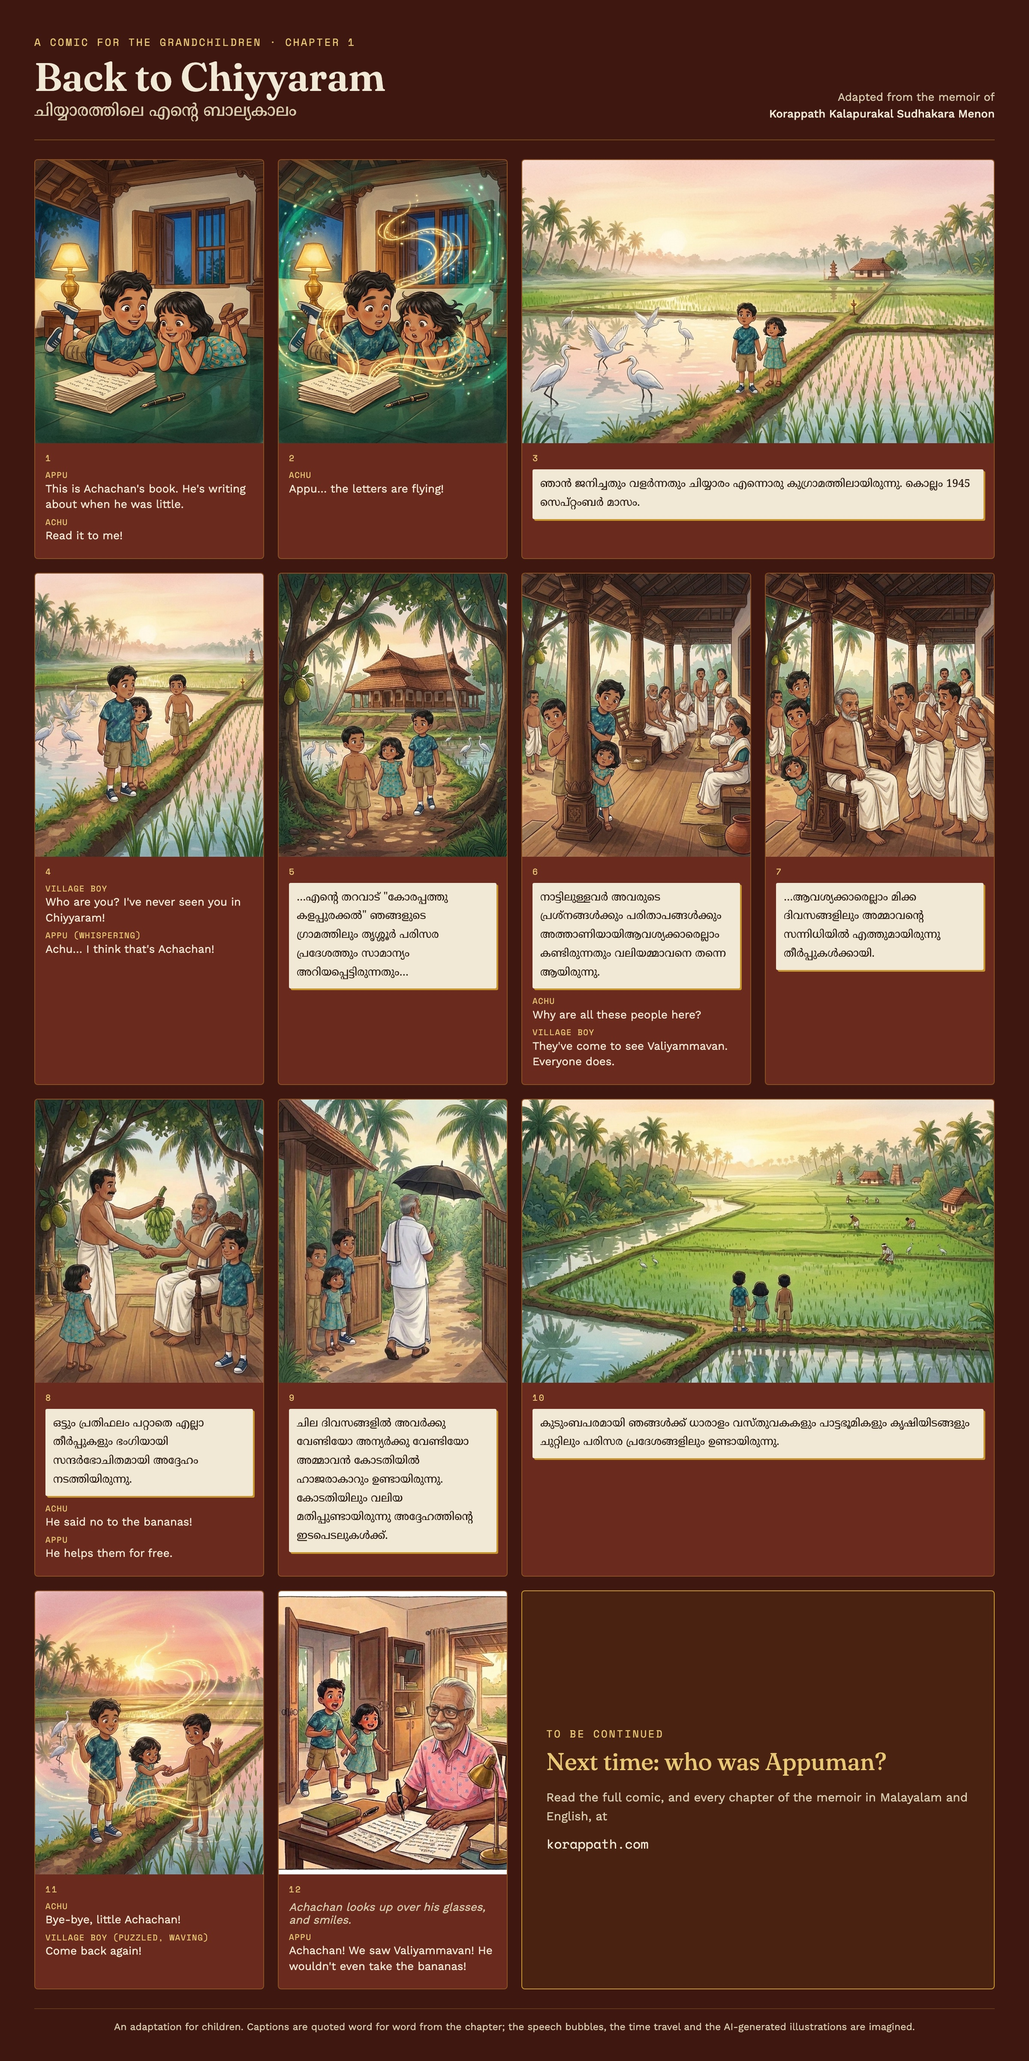
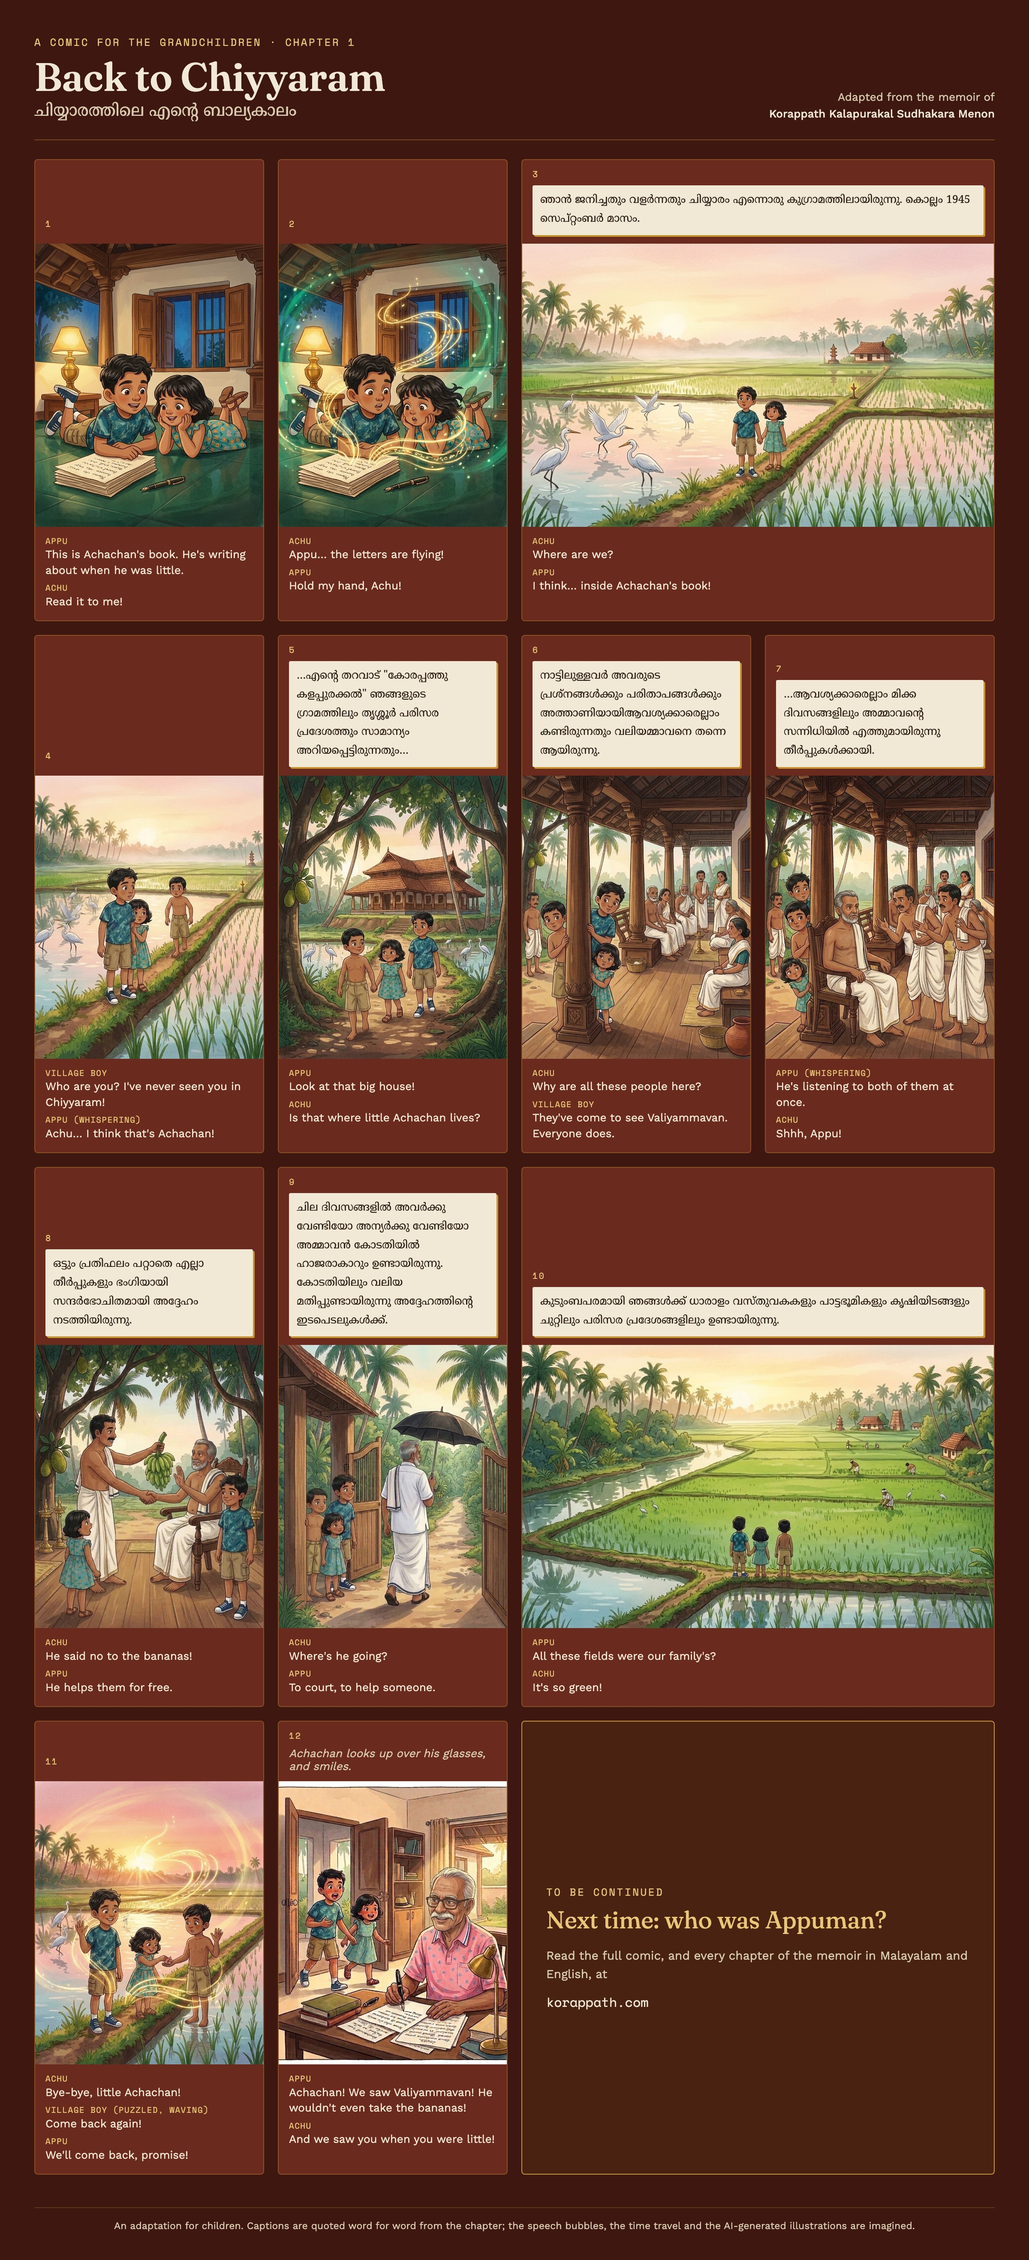
Comic ch.1: more lines for Appu and Achu; captions above pictures, bubbles below
Every panel now has Appu or Achu speaking (11 new invented lines; no new
words for young Achan or Valiyammavan). In the reader and the share images the
chapter caption sits above each picture and speech bubbles below, with
pictures level across each row. Script/style versions bumped.

diff --git a/comics/chiyyaram-childhood/story.js b/comics/chiyyaram-childhood/story.js
@@ -8,41 +8,46 @@ var APPU = 'Appu';
 var ACHU = 'Achu';
 
 // Captions (ml / en) are VERBATIM from stories/chiyyaram-childhood.html. "…" marks words left out; nothing is reworded.
-// Bubbles and narration are invented for the comic.
+// Bubbles and narration are invented for the comic. In each panel the caption sits above the picture, bubbles below.
 var PANELS = [
   { alt: 'Two children lying on a tiled floor at night, reading a stack of handwritten pages.',
     bubbles: [[APPU, 'This is ' + GRANDPA + "'s book. He's writing about when he was little."], [ACHU, 'Read it to me!']] },
   { alt: 'Golden ribbons of light rise from the pages and swirl around the amazed children.',
-    bubbles: [[ACHU, APPU + '… the letters are flying!']] },
+    bubbles: [[ACHU, APPU + '… the letters are flying!'], [APPU, 'Hold my hand, ' + ACHU + '!']] },
   { wide: true, alt: 'The two children on a ridge between misty paddy fields at sunrise, egrets nearby.',
     ml: 'ഞാൻ ജനിച്ചതും വളർന്നതും ചിയ്യാരം എന്നൊരു കുഗ്രാമത്തിലായിരുന്നു. കൊല്ലം 1945 സെപ്റ്റംബർ മാസം.',
-    en: 'I was born and raised in a small village called Chiyyaram, in September of the year 1945.' },
+    en: 'I was born and raised in a small village called Chiyyaram, in September of the year 1945.',
+    bubbles: [[ACHU, 'Where are we?'], [APPU, 'I think… inside ' + GRANDPA + "'s book!"]] },
   { alt: 'A bare-chested village boy in half-trousers stops on the ridge, staring at the two children.',
     bubbles: [['Village boy', "Who are you? I've never seen you in Chiyyaram!"], [APPU + ' (whispering)', ACHU + '… I think that\'s ' + GRANDPA + '!', 'aside']] },
   { alt: 'The village boy leads the children up a path toward a large tiled-roof ancestral home.',
     ml: '…എന്റെ തറവാട് "കോരപ്പത്തു കളപ്പുരക്കൽ" ഞങ്ങളുടെ ഗ്രാമത്തിലും തൃശ്ശൂർ പരിസര പ്രദേശത്തും സാമാന്യം അറിയപ്പെട്ടിരുന്നതും…',
-    en: '…my ancestral home, "Korappath Kalappurakkal," was reasonably well known in our village and the surrounding Thrissur area…' },
+    en: '…my ancestral home, "Korappath Kalappurakkal," was reasonably well known in our village and the surrounding Thrissur area…',
+    bubbles: [[APPU, 'Look at that big house!'], [ACHU, 'Is that where little ' + GRANDPA + ' lives?']] },
   { alt: 'Villagers wait on the wide wooden veranda while the three children peek from behind a pillar.',
     ml: 'നാട്ടിലുള്ളവർ അവരുടെ പ്രശ്നങ്ങൾക്കും പരിതാപങ്ങൾക്കും അത്താണിയായിആവശ്യക്കാരെല്ലാം കണ്ടിരുന്നതും വലിയമ്മാവനെ തന്നെ ആയിരുന്നു.',
     en: 'The people of the village saw him as their refuge for their troubles and grievances; everyone in need turned to my uncle himself.',
     bubbles: [[ACHU, 'Why are all these people here?'], ['Village boy', "They've come to see Valiyammavan. Everyone does."]] },
   { alt: 'The elder uncle sits calmly in a carved chair, listening to two farmers talking at once.',
     ml: '…ആവശ്യക്കാരെല്ലാം മിക്ക ദിവസങ്ങളിലും അമ്മാവന്റെ സന്നിധിയിൽ എത്തുമായിരുന്നു തീർപ്പുകൾക്കായി.',
-    en: '…people in need would come to him on most days seeking resolutions.' },
+    en: '…people in need would come to him on most days seeking resolutions.',
+    bubbles: [[APPU + ' (whispering)', "He's listening to both of them at once.", 'aside'], [ACHU, 'Shhh, ' + APPU + '!']] },
   { alt: 'A smiling farmer offers a bunch of bananas; the uncle raises his palm, kindly refusing.',
     ml: 'ഒട്ടും പ്രതിഫലം പറ്റാതെ എല്ലാ തീർപ്പുകളും ഭംഗിയായി സന്ദർഭോചിതമായി അദ്ദേഹം നടത്തിയിരുന്നു.',
     en: 'Without accepting any payment at all, he carried out every resolution gracefully and appropriately to the situation.',
     bubbles: [[ACHU, 'He said no to the bananas!'], [APPU, 'He helps them for free.']] },
   { alt: 'The uncle in white, holding a black umbrella, walks out of the gate while the children watch.',
     ml: 'ചില ദിവസങ്ങളിൽ അവർക്കു വേണ്ടിയോ അന്യർക്കു വേണ്ടിയോ അമ്മാവൻ കോടതിയിൽ ഹാജരാകാറും ഉണ്ടായിരുന്നു. കോടതിയിലും വലിയ മതിപ്പുണ്ടായിരുന്നു അദ്ദേഹത്തിന്റെ ഇടപെടലുകൾക്ക്.',
-    en: 'On some days, my uncle would even appear in court, whether on their behalf or on behalf of others. Even in court, his interventions were held in great regard.' },
+    en: 'On some days, my uncle would even appear in court, whether on their behalf or on behalf of others. Even in court, his interventions were held in great regard.',
+    bubbles: [[ACHU, "Where's he going?"], [APPU, 'To court, to help someone.']] },
   { wide: true, alt: 'The three children, seen from behind, look out over wide green paddy fields and coconut groves.',
     ml: 'കുടുംബപരമായി ഞങ്ങൾക്ക് ധാരാളം വസ്തുവകകളും പാട്ടഭൂമികളും കൃഷിയിടങ്ങളും ചുറ്റിലും പരിസര പ്രദേശങ്ങളിലും ഉണ്ടായിരുന്നു.',
-    en: 'As a family, we had a great deal of property, leased lands, and farmland in and around the surrounding areas.' },
+    en: 'As a family, we had a great deal of property, leased lands, and farmland in and around the surrounding areas.',
+    bubbles: [[APPU, "All these fields were our family's?"], [ACHU, "It's so green!"]] },
   { alt: 'At sunset the light swirls again; the little sister gives the village boy a sweet as everyone waves goodbye.',
-    bubbles: [[ACHU, 'Bye-bye, little ' + GRANDPA + '!'], ['Village boy (puzzled, waving)', 'Come back again!']] },
+    bubbles: [[ACHU, 'Bye-bye, little ' + GRANDPA + '!'], ['Village boy (puzzled, waving)', 'Come back again!'], [APPU, "We'll come back, promise!"]] },
   { alt: 'Back home, the children burst in; their grandfather looks up from his writing and smiles.',
-    bubbles: [[APPU, GRANDPA + '! We saw Valiyammavan! He wouldn\'t even take the bananas!']],
+    bubbles: [[APPU, GRANDPA + '! We saw Valiyammavan! He wouldn\'t even take the bananas!'], [ACHU, 'And we saw you when you were little!']],
     narration: GRANDPA + ' looks up over his glasses, and smiles.',
     end: true }
 ];

diff --git a/comics/viewer.css b/comics/viewer.css
@@ -39,22 +39,27 @@ h1{ font-family:'Fraunces', serif; font-weight:500; font-size:clamp(1.6rem, 5vw,
 .comic-wrap{ max-width:1200px; margin:0 auto; padding:0 16px 2.5rem; }
 .comic-view{ position:relative; overflow:hidden; }
 .comic-page{ position:absolute; top:0; left:0; width:1200px; transform-origin:0 0; padding:0; will-change:transform; }
-.cgrid{ display:grid; grid-template-columns:repeat(4, 1fr); gap:16px; align-items:stretch; }
-.cc{ background:var(--oxide); border:1px solid rgba(198,149,47,0.35); border-radius:4px; overflow:hidden; cursor:zoom-in; transition:opacity 0.45s ease, box-shadow 0.3s ease; }
+/* Each panel = narrative strip (top), picture, speech bubbles (bottom). Subgrid lines these three parts
+   up across a row, so every picture in a row starts at the same height. */
+.cgrid{ display:grid; grid-template-columns:repeat(4, 1fr); column-gap:16px; row-gap:0; }
+.cc{ display:grid; grid-row:span 3; grid-template-rows:subgrid; margin-bottom:16px; background:var(--oxide); border:1px solid rgba(198,149,47,0.35); border-radius:4px; overflow:hidden; cursor:zoom-in; transition:opacity 0.45s ease, box-shadow 0.3s ease; }
 .cc:focus-visible{ outline:3px solid var(--brass-light); outline-offset:2px; }
 .cc.wide{ grid-column:span 2; }
 .cc img{ display:block; width:100%; height:335px; object-fit:cover; background:var(--oxide-dark); }
-.cb{ padding:10px 12px 12px; }
+.ct{ padding:9px 12px 10px; align-self:end; }
+.cb{ padding:12px 12px 8px; }
 .cn{ font-family:'Space Mono', monospace; font-size:10px; letter-spacing:0.12em; color:var(--brass-light); margin-bottom:6px; }
-.cap{ background:var(--ivory); color:var(--teak); padding:7px 9px; border-radius:2px; box-shadow:2px 2px 0 var(--brass); font-family:'Fraunces', serif; font-size:13px; line-height:1.45; margin-bottom:9px; }
+.cap{ background:var(--ivory); color:var(--teak); padding:7px 9px; border-radius:2px; box-shadow:2px 2px 0 var(--brass); font-family:'Fraunces', serif; font-size:13px; line-height:1.45; }
+.ct .narr{ margin:6px 0 0; }
 .cap.ml{ font-family:'Noto Serif Malayalam', serif; font-size:12.5px; line-height:1.75; }
 .cap .lbl{ display:block; font-family:'Space Mono', monospace; font-size:7.5px; letter-spacing:0.12em; text-transform:uppercase; color:var(--oxide-light); margin-bottom:2px; }
 .narr{ font-style:italic; font-size:12.5px; color:var(--ivory-dim); margin-bottom:7px; }
-.bub{ position:relative; background:#fff; color:var(--teak); border-radius:12px; padding:5px 9px 6px; margin:0 0 7px 6px; width:fit-content; max-width:96%; font-family:'Work Sans', sans-serif; font-weight:400; font-size:12.5px; line-height:1.35; }
-.bub::before{ content:""; position:absolute; left:-6px; top:9px; border:6px solid transparent; border-right-color:#fff; border-left:0; }
+/* Speech bubbles: the original viewer's style (round white bubble, tail on the left, speaker on top). */
+.bub{ position:relative; background:#fff; color:var(--teak); border-radius:14px; padding:6px 11px 7px; margin:0 0 9px 7px; width:fit-content; max-width:94%; font-family:'Work Sans', sans-serif; font-weight:400; font-size:13px; line-height:1.4; }
+.bub::before{ content:""; position:absolute; left:-7px; top:10px; border:7px solid transparent; border-right-color:#fff; border-left:0; }
 .bub .who{ display:block; font-family:'Space Mono', monospace; font-size:8px; letter-spacing:0.1em; text-transform:uppercase; color:var(--oxide-light); }
 .bub.aside{ font-style:italic; }
-.cc.end{ grid-column:span 2; display:flex; flex-direction:column; justify-content:center; padding:28px; border-color:var(--brass); background:rgba(198,149,47,0.08); cursor:default; }
+.cc.end{ grid-column:span 2; grid-row:span 3; display:flex; flex-direction:column; justify-content:center; padding:28px; border-color:var(--brass); background:rgba(198,149,47,0.08); cursor:default; }
 .cc.end .tbc{ font-family:'Fraunces', serif; font-size:28px; color:var(--brass-light); margin:6px 0 14px; line-height:1.2; }
 .cc.end p{ font-size:14px; color:var(--ivory-dim); margin-bottom:12px; }
 .cc.end a{ font-family:'Space Mono', monospace; font-size:14px; color:var(--teak); background:var(--brass); padding:8px 14px; border-radius:2px; text-decoration:none; width:fit-content; }
@@ -75,7 +80,7 @@ h1{ font-family:'Fraunces', serif; font-weight:500; font-size:clamp(1.6rem, 5vw,
 .gread{ display:none; }
 .comic-view.guided .gread:not([hidden]){ display:block; position:absolute; left:0; right:0; bottom:64px; z-index:4; max-height:48vh; overflow:auto; padding:12px 16px 4px; background:rgba(30,12,7,0.94); border-top:1px solid rgba(198,149,47,0.25); }
 .gread .cn{ display:none; }
-.gread .cap{ font-size:16px; padding:10px 12px; box-shadow:3px 3px 0 var(--brass); }
+.gread .cap{ font-size:16px; padding:10px 12px; box-shadow:3px 3px 0 var(--brass); margin-bottom:12px; }
 .gread .cap.ml{ font-size:15.5px; }
 .gread .cap .lbl{ font-size:9px; }
 .gread .narr, .gread .bub{ font-size:15.5px; }

diff --git a/comics/chiyyaram-childhood/sheet.html b/comics/chiyyaram-childhood/sheet.html
@@ -25,11 +25,15 @@
   .by{ text-align:right; font-size:13px; color:var(--ivory-dim); line-height:1.5; max-width:380px; }
   .by strong{ color:var(--ivory); font-weight:500; }
 
-  .grid{ display:grid; grid-template-columns:repeat(4, 1fr); gap:16px; align-items:stretch; }
-  .cell{ background:var(--oxide); border:1px solid rgba(198,149,47,0.35); border-radius:4px; overflow:hidden; }
+  /* Each cell: narrative on top, picture, speech below. Subgrid keeps every picture in a row level. */
+  .grid{ display:grid; grid-template-columns:repeat(4, 1fr); column-gap:16px; row-gap:0; }
+  .cell{ display:grid; grid-row:span 3; grid-template-rows:subgrid; margin-bottom:16px; background:var(--oxide); border:1px solid rgba(198,149,47,0.35); border-radius:4px; overflow:hidden; }
   .cell.wide{ grid-column:span 2; }
   .cell img{ display:block; width:100%; height:330px; object-fit:cover; }
-  .body{ padding:10px 12px 12px; }
+  .top{ padding:9px 12px 10px; align-self:end; }
+  .top .cap{ margin-bottom:0; }
+  .top .narr{ margin:6px 0 0; }
+  .body{ padding:10px 12px 8px; }
   .num{ font-family:'Space Mono', monospace; font-size:10px; letter-spacing:0.12em; color:var(--brass-light); margin-bottom:6px; }
   .cap{ background:var(--ivory); color:var(--teak); padding:7px 9px; border-radius:2px; box-shadow:2px 2px 0 var(--brass); font-family:'Fraunces', serif; font-size:13px; line-height:1.45; margin-bottom:8px; }
   .cap.ml{ font-family:'Noto Serif Malayalam', serif; font-size:12.5px; line-height:1.75; }
@@ -37,7 +41,7 @@
   .say b{ font-family:'Space Mono', monospace; font-weight:400; font-size:9.5px; letter-spacing:0.08em; text-transform:uppercase; color:var(--brass-light); display:block; }
   .narr{ font-style:italic; font-size:13px; color:var(--ivory-dim); margin-bottom:6px; }
 
-  .endcard{ grid-column:span 2; align-self:stretch; display:flex; flex-direction:column; justify-content:center; padding:28px; border:1px solid var(--brass); border-radius:4px; background:rgba(198,149,47,0.08); }
+  .endcard{ grid-column:span 2; grid-row:span 3; margin-bottom:16px; align-self:stretch; display:flex; flex-direction:column; justify-content:center; padding:28px; border:1px solid var(--brass); border-radius:4px; background:rgba(198,149,47,0.08); }
   .endcard .tbc{ font-family:'Fraunces', serif; font-size:28px; color:var(--brass-light); margin:6px 0 14px; }
   .endcard p{ font-size:14px; color:var(--ivory-dim); line-height:1.55; margin-bottom:10px; }
   .endcard .url{ font-family:'Space Mono', monospace; font-size:15px; color:var(--ivory); }
@@ -68,18 +72,20 @@ function esc(s) { var d = document.createElement('div'); d.textContent = s; retu
 
 var html = '';
 PANELS.forEach(function (p, i) {
-  var n = i + 1, body = '';
+  var n = i + 1, top = '', body = '';
+  // Narrative (chapter caption + narration) above the picture, speech below it (same as the reader).
   if (p.ml || p.en) {
-    body += lang === 'ml' ? '<div class="cap ml" lang="ml">' + esc(p.ml) + '</div>'
-                          : '<div class="cap">' + esc(p.en) + '</div>';
+    top += lang === 'ml' ? '<div class="cap ml" lang="ml">' + esc(p.ml) + '</div>'
+                         : '<div class="cap">' + esc(p.en) + '</div>';
   }
-  if (p.narration) body += '<div class="narr">' + esc(p.narration) + '</div>';
+  if (p.narration) top += '<div class="narr">' + esc(p.narration) + '</div>';
   (p.bubbles || []).forEach(function (b) {
     body += '<div class="say"><b>' + esc(b[0]) + '</b>' + esc(b[1]) + '</div>';
   });
   html += '<div class="cell' + (WIDE[n] ? ' wide' : '') + '">' +
+          '<div class="top"><div class="num">' + n + '</div>' + top + '</div>' +
           '<img src="panels/panel-' + (n < 10 ? '0' : '') + n + '.jpg" alt="' + esc(p.alt) + '">' +
-          '<div class="body"><div class="num">' + n + '</div>' + body + '</div></div>';
+          '<div class="body">' + body + '</div></div>';
 });
 html += '<div class="endcard"><div class="eyebrow">To be continued</div>' +
         '<div class="tbc">Next time: who was Appuman?</div>' +

diff --git a/comics/viewer.js b/comics/viewer.js
@@ -27,7 +27,8 @@
   function src(i) { return 'panels/panel-' + (i < 9 ? '0' : '') + (i + 1) + '.jpg' + (C.v ? '?v=' + encodeURIComponent(C.v) : ''); }
   function stops() { return cells.length; } // panels + the end card
 
-  function text(p) {
+  // The narrative (chapter caption + narration) goes ABOVE the picture; speech bubbles go below it.
+  function narrative(p) {
     var h = '';
     if (p.ml || p.en) {
       h += lang === 'ml'
@@ -35,18 +36,21 @@
         : '<div class="cap"><span class="lbl">From the chapter · AI-generated translation</span>' + esc(p.en) + '</div>';
     }
     if (p.narration) h += '<p class="narr">' + esc(p.narration) + '</p>';
-    (p.bubbles || []).forEach(function (b) {
-      h += '<div class="bub' + (b[2] ? ' ' + b[2] : '') + '"><span class="who">' + esc(b[0]) + '</span>' + esc(b[1]) + '</div>';
-    });
     return h;
+  }
+  function bubbles(p) {
+    return (p.bubbles || []).map(function (b) {
+      return '<div class="bub' + (b[2] ? ' ' + b[2] : '') + '"><span class="who">' + esc(b[0]) + '</span>' + esc(b[1]) + '</div>';
+    }).join('');
   }
 
   function build() {
     var h = '';
     P.forEach(function (p, i) {
       h += '<div class="cc' + (p.wide ? ' wide' : '') + '" data-i="' + i + '" tabindex="0" role="button" aria-label="Panel ' + (i + 1) + '">' +
+           '<div class="ct"><div class="cn">' + (i + 1) + '</div>' + narrative(p) + '</div>' +
            '<img src="' + src(i) + '" alt="' + esc(p.alt) + '" decoding="async">' +
-           '<div class="cb"><div class="cn">' + (i + 1) + '</div>' + text(p) + '</div></div>';
+           '<div class="cb">' + bubbles(p) + '</div></div>';
     });
     h += '<div class="cc end" data-i="' + P.length + '" tabindex="0" aria-label="To be continued">' +
          '<div class="eyebrow">To be continued</div><div class="tbc">' + esc(C.next) + '</div>' +
@@ -73,9 +77,10 @@
     var s = fit(el, vw, vh);
     // If this panel's text would come out too small (wide panels on a phone), zoom on the picture
     // alone and show the text full-size in a reading card under it.
-    var cb = el.querySelector('.cb'), img = el.querySelector('img');
-    if (cb && img && cb.textContent.trim().length > 3 && s * TEXT_PX < MIN_TEXT_PX) {
-      readCard.innerHTML = cb.innerHTML;
+    var p = P[cur], img = el.querySelector('img');
+    var words = p && (narrative(p) + bubbles(p));
+    if (words && img && s * TEXT_PX < MIN_TEXT_PX) {
+      readCard.innerHTML = words;
       readCard.hidden = false;
       vh -= readCard.offsetHeight;
       target = img;

diff --git a/comics/chiyyaram-childhood/index.html b/comics/chiyyaram-childhood/index.html
@@ -8,7 +8,7 @@
 <link rel="preconnect" href="https://fonts.googleapis.com">
 <link rel="preconnect" href="https://fonts.gstatic.com" crossorigin>
 <link href="https://fonts.googleapis.com/css2?family=Fraunces:opsz,wght@9..144,300;9..144,500;9..144,600&family=Noto+Serif+Malayalam:wght@400;600&family=Work+Sans:wght@300;400;500&family=Space+Mono:wght@400;700&display=swap" rel="stylesheet">
-<link rel="stylesheet" href="../viewer.css?v=1">
+<link rel="stylesheet" href="../viewer.css?v=2">
 </head>
 <body>
 
@@ -56,7 +56,7 @@
 
 <footer>An ongoing family archive · Korappath, Chiyyaram, Thrissur</footer>
 
-<script src="story.js?v=2"></script>
+<script src="story.js?v=3"></script>
 <script>
 var COMIC = {
   v: '2',  // bump whenever a panel image changes, so browsers drop their cached copies
@@ -65,6 +65,6 @@ var COMIC = {
   nextLink: 'Read Chapter 2 →'
 };
 </script>
-<script src="../viewer.js?v=2"></script>
+<script src="../viewer.js?v=3"></script>
 </body>
 </html>
